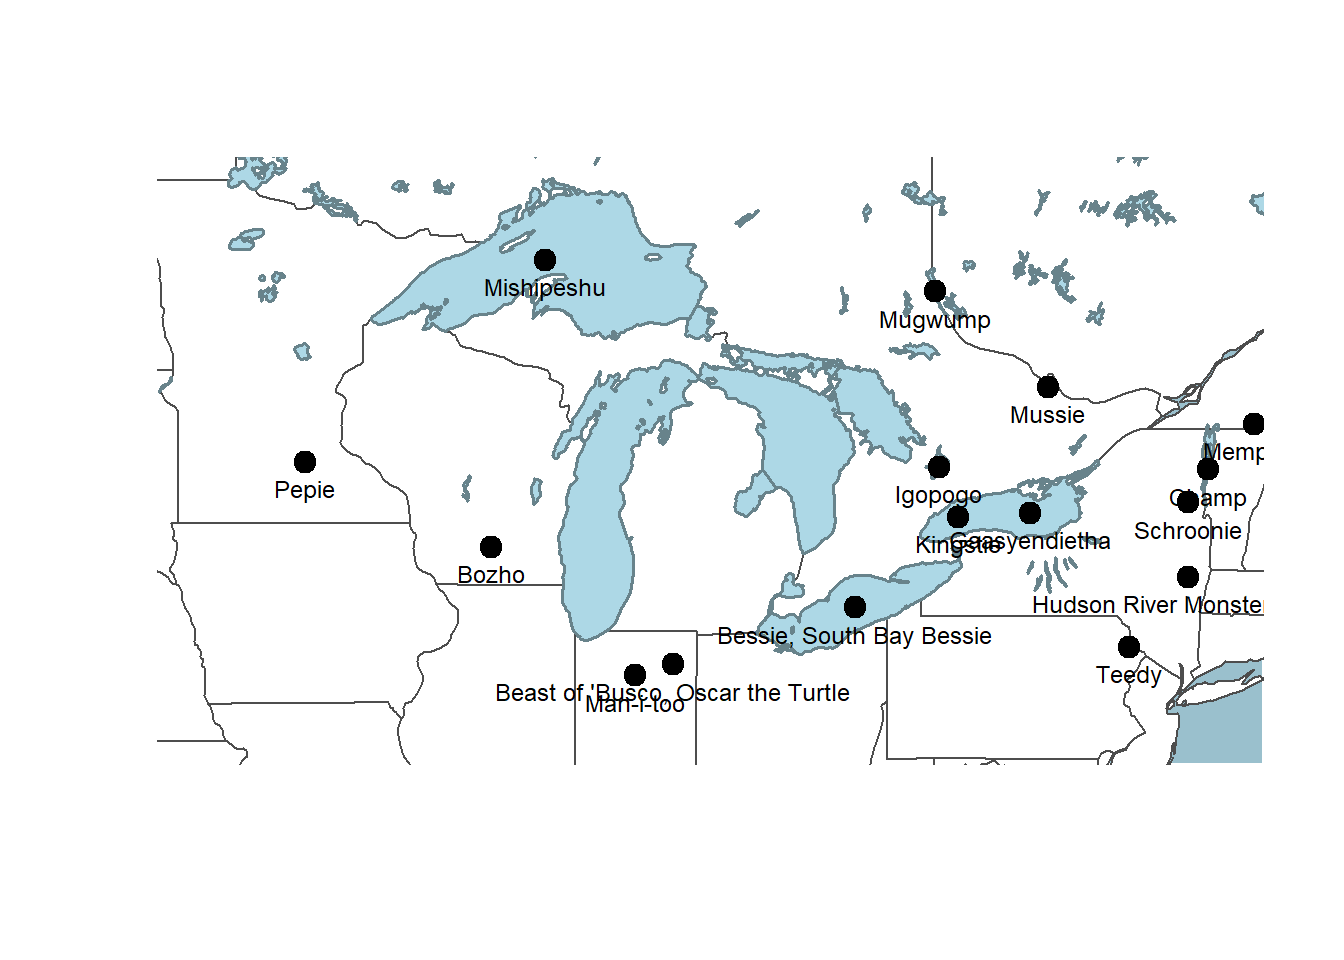
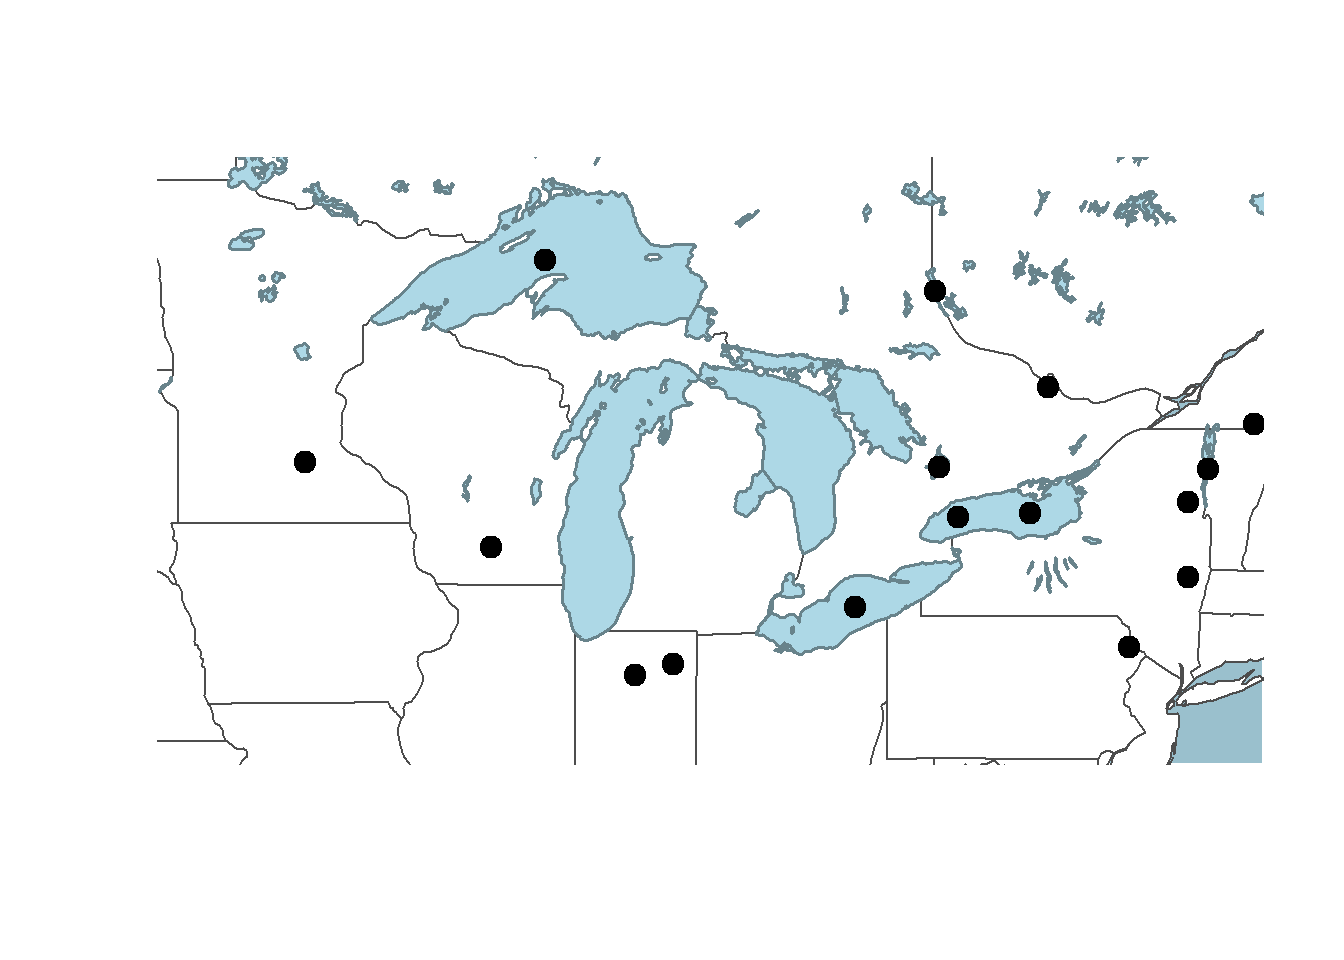
render

diff --git a/docs/chapters/Base_R.html b/docs/chapters/Base_R.html
@@ -183,6 +183,9 @@ pre > code.sourceCode > span > a:first-child::before { text-decoration: underlin
   <li><a href="#intro-to-plot" id="toc-intro-to-plot" class="nav-link active" data-scroll-target="#intro-to-plot"><span class="header-section-number">2.1</span> Intro to plot()</a></li>
   <li><a href="#multiple-layers" id="toc-multiple-layers" class="nav-link" data-scroll-target="#multiple-layers"><span class="header-section-number">2.2</span> Multiple Layers</a></li>
   <li><a href="#styling" id="toc-styling" class="nav-link" data-scroll-target="#styling"><span class="header-section-number">2.3</span> Styling</a></li>
+  <li><a href="#add-text-labels" id="toc-add-text-labels" class="nav-link" data-scroll-target="#add-text-labels"><span class="header-section-number">2.4</span> Add Text Labels</a></li>
+  <li><a href="#north-arrow-scale-bar" id="toc-north-arrow-scale-bar" class="nav-link" data-scroll-target="#north-arrow-scale-bar"><span class="header-section-number">2.5</span> North Arrow &amp; Scale Bar</a></li>
+  <li><a href="#summary" id="toc-summary" class="nav-link" data-scroll-target="#summary"><span class="header-section-number">2.6</span> Summary</a></li>
   </ul>
 <div class="toc-actions"><ul><li><a href="https://github.com/ucdavisdatalab/workshop_maps_in_R/issues/new" class="toc-action"><i class="bi bi-github"></i>Report an issue</a></li><li><a href="https://github.com/ucdavisdatalab/workshop_maps_in_R/blob/main/chapters/Base_R.qmd" class="toc-action"><i class="bi empty"></i>View source</a></li></ul></div></nav>
     </div>
@@ -300,12 +303,7 @@ pre > code.sourceCode > span > a:first-child::before { text-decoration: underlin
 <span id="cb6-24"><a href="#cb6-24" aria-hidden="true" tabindex="-1"></a>  <span class="fu">plot</span>(<span class="fu">st_geometry</span>(monsters), </span>
 <span id="cb6-25"><a href="#cb6-25" aria-hidden="true" tabindex="-1"></a>       <span class="at">pch =</span> <span class="dv">19</span>,               <span class="co">#set the points to filled circles</span></span>
 <span id="cb6-26"><a href="#cb6-26" aria-hidden="true" tabindex="-1"></a>       <span class="at">cex =</span> <span class="fl">1.5</span>,               <span class="co">#set symbol size</span></span>
-<span id="cb6-27"><a href="#cb6-27" aria-hidden="true" tabindex="-1"></a>       <span class="at">add=</span><span class="cn">TRUE</span>)</span>
-<span id="cb6-28"><a href="#cb6-28" aria-hidden="true" tabindex="-1"></a>  </span>
-<span id="cb6-29"><a href="#cb6-29" aria-hidden="true" tabindex="-1"></a>  <span class="fu">text</span>(monsters,               <span class="co">#locations</span></span>
-<span id="cb6-30"><a href="#cb6-30" aria-hidden="true" tabindex="-1"></a>       monsters<span class="sc">$</span>Name,          <span class="co">#labels</span></span>
-<span id="cb6-31"><a href="#cb6-31" aria-hidden="true" tabindex="-1"></a>       <span class="at">cex =</span> <span class="fl">0.75</span>,             <span class="co">#scale for the characters (text)</span></span>
-<span id="cb6-32"><a href="#cb6-32" aria-hidden="true" tabindex="-1"></a>       <span class="at">pos =</span> <span class="dv">1</span>)                <span class="co">#1=below, 2=left, 3=above, 4=right</span></span></code><button title="Copy to Clipboard" class="code-copy-button"><i class="bi"></i></button></pre></div>
+<span id="cb6-27"><a href="#cb6-27" aria-hidden="true" tabindex="-1"></a>       <span class="at">add=</span><span class="cn">TRUE</span>)</span></code><button title="Copy to Clipboard" class="code-copy-button"><i class="bi"></i></button></pre></div>
 <div class="cell-output-display">
 <div>
 <figure class="figure">
@@ -314,7 +312,56 @@ pre > code.sourceCode > span > a:first-child::before { text-decoration: underlin
 </div>
 </div>
 </div>
+</section>
+<section id="add-text-labels" class="level2" data-number="2.4">
+<h2 data-number="2.4" class="anchored" data-anchor-id="add-text-labels"><span class="header-section-number">2.4</span> Add Text Labels</h2>
+<p>Let’s add some text labels so we know what the names of each of the monsters are. We can keep the same code to make the plots, but we need to add a call to the function <code>text()</code> at the end to write the text labels on top of the rest of the map.</p>
+<div class="cell">
+<div class="sourceCode cell-code" id="cb7"><pre class="sourceCode r code-with-copy"><code class="sourceCode r"><span id="cb7-1"><a href="#cb7-1" aria-hidden="true" tabindex="-1"></a>  <span class="co">#create a bounding box object for the zoom area of our map</span></span>
+<span id="cb7-2"><a href="#cb7-2" aria-hidden="true" tabindex="-1"></a>  aoi <span class="ot">&lt;-</span> <span class="fu">st_bbox</span>(<span class="fu">c</span>(<span class="at">xmin =</span> <span class="sc">-</span><span class="dv">89</span>, <span class="at">xmax =</span> <span class="sc">-</span><span class="dv">80</span>, <span class="at">ymax =</span> <span class="dv">49</span>, <span class="at">ymin =</span> <span class="dv">40</span>), <span class="at">crs =</span> <span class="fu">st_crs</span>(<span class="dv">4326</span>))</span>
+<span id="cb7-3"><a href="#cb7-3" aria-hidden="true" tabindex="-1"></a></span>
+<span id="cb7-4"><a href="#cb7-4" aria-hidden="true" tabindex="-1"></a></span>
+<span id="cb7-5"><a href="#cb7-5" aria-hidden="true" tabindex="-1"></a>  <span class="fu">plot</span>(</span>
+<span id="cb7-6"><a href="#cb7-6" aria-hidden="true" tabindex="-1"></a>    <span class="fu">st_geometry</span>(states),       </span>
+<span id="cb7-7"><a href="#cb7-7" aria-hidden="true" tabindex="-1"></a>    <span class="at">col=</span><span class="st">"white"</span>,               </span>
+<span id="cb7-8"><a href="#cb7-8" aria-hidden="true" tabindex="-1"></a>    <span class="at">border=</span><span class="st">"gray30"</span>,           </span>
+<span id="cb7-9"><a href="#cb7-9" aria-hidden="true" tabindex="-1"></a>    <span class="at">extent=</span>aoi,                </span>
+<span id="cb7-10"><a href="#cb7-10" aria-hidden="true" tabindex="-1"></a>    <span class="at">bg=</span><span class="st">"lightblue3"</span>            </span>
+<span id="cb7-11"><a href="#cb7-11" aria-hidden="true" tabindex="-1"></a>    )   </span>
+<span id="cb7-12"><a href="#cb7-12" aria-hidden="true" tabindex="-1"></a></span>
+<span id="cb7-13"><a href="#cb7-13" aria-hidden="true" tabindex="-1"></a>  <span class="fu">plot</span>(<span class="fu">st_geometry</span>(lakes), </span>
+<span id="cb7-14"><a href="#cb7-14" aria-hidden="true" tabindex="-1"></a>       <span class="at">col=</span><span class="st">"lightblue"</span>,</span>
+<span id="cb7-15"><a href="#cb7-15" aria-hidden="true" tabindex="-1"></a>       <span class="at">border=</span><span class="st">"lightblue4"</span>,</span>
+<span id="cb7-16"><a href="#cb7-16" aria-hidden="true" tabindex="-1"></a>       <span class="at">lwd=</span><span class="fl">1.5</span>,                 </span>
+<span id="cb7-17"><a href="#cb7-17" aria-hidden="true" tabindex="-1"></a>       <span class="at">add=</span><span class="cn">TRUE</span>)</span>
+<span id="cb7-18"><a href="#cb7-18" aria-hidden="true" tabindex="-1"></a>    </span>
+<span id="cb7-19"><a href="#cb7-19" aria-hidden="true" tabindex="-1"></a></span>
+<span id="cb7-20"><a href="#cb7-20" aria-hidden="true" tabindex="-1"></a>  <span class="fu">plot</span>(<span class="fu">st_geometry</span>(monsters), </span>
+<span id="cb7-21"><a href="#cb7-21" aria-hidden="true" tabindex="-1"></a>       <span class="at">pch =</span> <span class="dv">19</span>,               </span>
+<span id="cb7-22"><a href="#cb7-22" aria-hidden="true" tabindex="-1"></a>       <span class="at">cex =</span> <span class="fl">1.5</span>,              </span>
+<span id="cb7-23"><a href="#cb7-23" aria-hidden="true" tabindex="-1"></a>       <span class="at">add=</span><span class="cn">TRUE</span>)</span>
+<span id="cb7-24"><a href="#cb7-24" aria-hidden="true" tabindex="-1"></a>  </span>
+<span id="cb7-25"><a href="#cb7-25" aria-hidden="true" tabindex="-1"></a>  <span class="fu">text</span>(monsters,               <span class="co">#locations</span></span>
+<span id="cb7-26"><a href="#cb7-26" aria-hidden="true" tabindex="-1"></a>       monsters<span class="sc">$</span>Name,          <span class="co">#labels</span></span>
+<span id="cb7-27"><a href="#cb7-27" aria-hidden="true" tabindex="-1"></a>       <span class="at">cex =</span> <span class="fl">0.75</span>,             <span class="co">#scale for the characters (text)</span></span>
+<span id="cb7-28"><a href="#cb7-28" aria-hidden="true" tabindex="-1"></a>       <span class="at">pos =</span> <span class="dv">1</span>)                <span class="co">#text position: 1=below, 2=left, 3=above, 4=right</span></span></code><button title="Copy to Clipboard" class="code-copy-button"><i class="bi"></i></button></pre></div>
+<div class="cell-output-display">
+<div>
+<figure class="figure">
+<p><img src="Base_R_files/figure-html/unnamed-chunk-7-1.png" class="img-fluid figure-img" width="672"></p>
+</figure>
+</div>
+</div>
+</div>
 <p>We don’t have much control over label placement with base <code>plot()</code> or the graphic’s final dimensions. If you want to edit this with more control, you could export a pdf file and edit it with a vector illustration software like Inkscape or Adobe Illustrator.</p>
+</section>
+<section id="north-arrow-scale-bar" class="level2" data-number="2.5">
+<h2 data-number="2.5" class="anchored" data-anchor-id="north-arrow-scale-bar"><span class="header-section-number">2.5</span> North Arrow &amp; Scale Bar</h2>
+<p>The base <code>plot()</code> function isn’t really designed to make publication-ready maps. Adding a scale bar and north arrow are not really in the scope of this particular work flow so we’ll skip that here. However, the map we made probably doesn’t need those things if our audience is familiar with the Great Lakes area because they map itself would convey a sense of scale and orientation.</p>
+</section>
+<section id="summary" class="level2" data-number="2.6">
+<h2 data-number="2.6" class="anchored" data-anchor-id="summary"><span class="header-section-number">2.6</span> Summary</h2>
+<p>We’ve seen that we can create a map quickly using <code>plot()</code> that communicates clearly what each layer contains. We have some basic options for controlling the style of the map, but to make a profession-quality map, we probably need a package specifically designed to make maps. We’ll cover other map making packages in subsequent sections.</p>
 
 
 </section>
